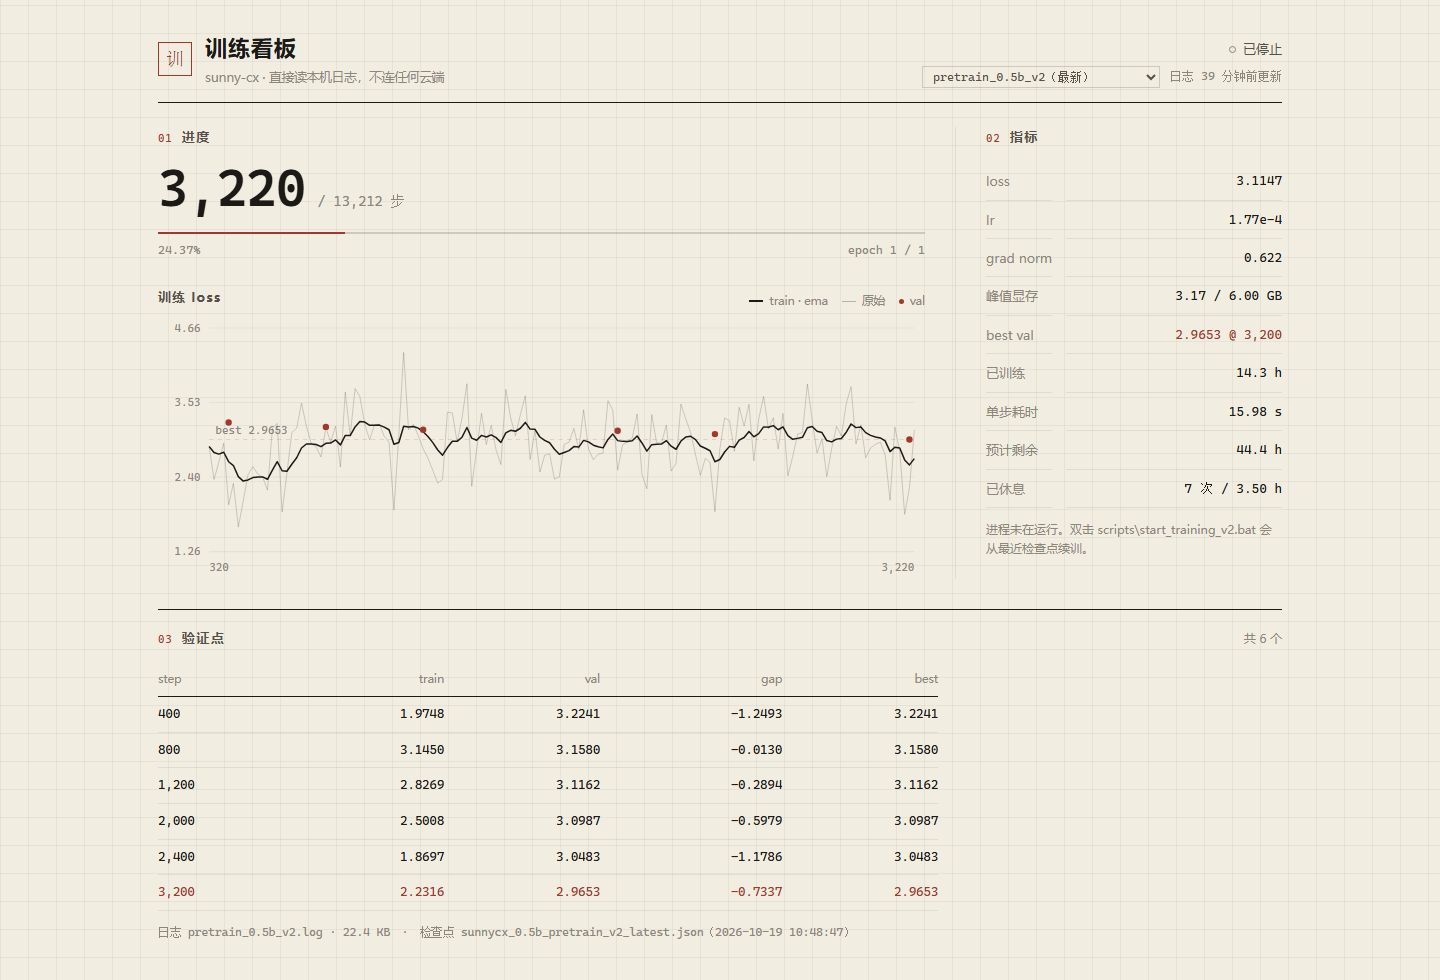
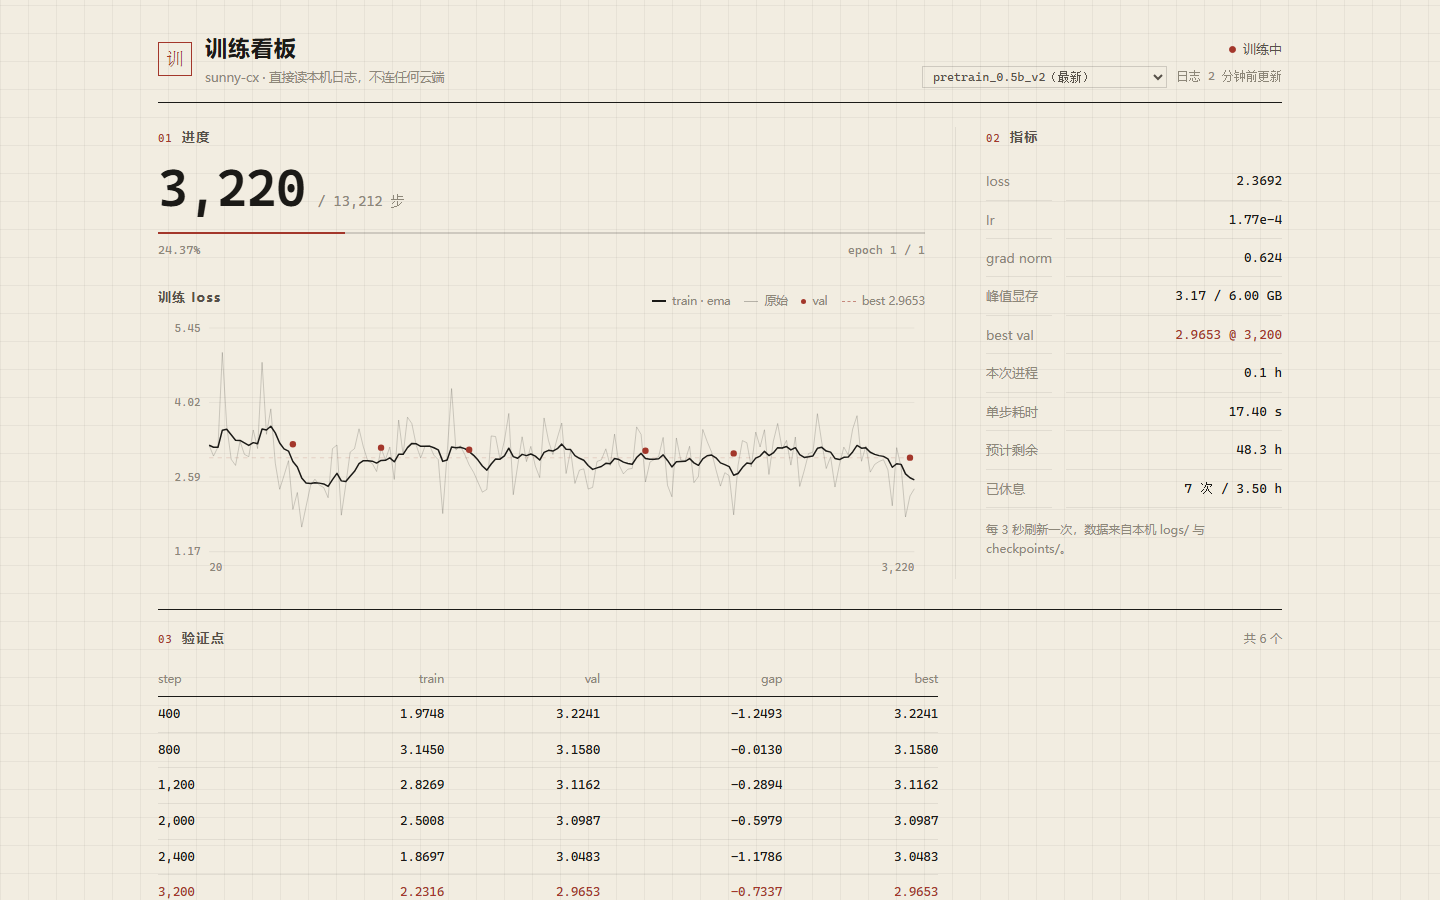
fix: 续训时 8-bit 优化器恢复的 OOM，并修正看板 ETA 口径
续训失败的真实原因
- bnb 8-bit 优化器状态恢复会临时把 int8 升精度，峰值远超常驻 0.98GiB
- 首轮报 OOM（「还有 3.57GB 空闲却分配不出 2MB」）；随后按官方建议加
  PYTORCH_CUDA_ALLOC_CONF=expandable_segments 反而在本机触发 0xC0000005
  —— 该选项 Windows 不支持，已撤除
- 修法：恢复前 gc + empty_cache；OOM 时只跳过优化器状态并明确告警
  （权重 / step / 早停照常恢复），其它 RuntimeError 照常抛出

看板 ETA 口径
- 原先用 elapsed*60/step：进程重启后 elapsed 归零而 step 是累计值，
  会算出 0.11 s/步、ETA 0.3h 这类荒谬数字
- 改为相邻进度点增量中位数（避开重启断点与 30min 休息段）
- 指标「已训练」改名「本次进程」，不再暗示累计

看板曲线跨重启
- 启动脚本以 `>` 覆盖主日志，重启即清空
- 解析层自动拼 `*.run*.log` 归档并按 step 去重，曲线连续
  （实测 3 段拼接：step 20 → 3220，161 点）

diff --git a/web/live.html b/web/live.html
@@ -59,6 +59,7 @@
             <span class="lg"><i class="lg-line"></i>train · ema</span>
             <span class="lg"><i class="lg-line lg-faint"></i>原始</span>
             <span class="lg"><i class="lg-dot"></i>val</span>
+            <span class="lg" id="lg-best" hidden><i class="lg-dash"></i><span id="lg-best-text">best</span></span>
           </div>
         </div>
         <svg id="curve" viewBox="0 0 720 250" preserveAspectRatio="none" role="img"
@@ -78,7 +79,7 @@
         <dt>grad norm</dt><dd id="m-gnorm">—</dd>
         <dt>峰值显存</dt><dd id="m-vram">—</dd>
         <dt>best val</dt><dd id="m-best">—</dd>
-        <dt>已训练</dt><dd id="m-elapsed">—</dd>
+        <dt>本次进程</dt><dd id="m-elapsed">—</dd>
         <dt>单步耗时</dt><dd id="m-sps">—</dd>
         <dt>预计剩余</dt><dd id="m-eta">—</dd>
         <dt>已休息</dt><dd id="m-rest">—</dd>

diff --git a/web/live.js b/web/live.js
@@ -84,13 +84,15 @@
         '" text-anchor="end">' + v.toFixed(2) + "</text>");
     }
 
-    // best val 参考线
+    // best val 参考线（数值放到图例里，避免压在曲线上）
     if (d.best_val != null && d.best_val >= lo && d.best_val <= hi) {
       var by = sy(d.best_val);
       out.push('<line class="best" x1="' + L + '" y1="' + by.toFixed(1) +
         '" x2="' + (W - R) + '" y2="' + by.toFixed(1) + '"/>');
-      out.push('<text class="axis" x="' + (L + 6) + '" y="' + (by - 5).toFixed(1) +
-        '">best ' + d.best_val.toFixed(4) + "</text>");
+      $("lg-best").hidden = false;
+      $("lg-best-text").textContent = "best " + d.best_val.toFixed(4);
+    } else {
+      $("lg-best").hidden = true;
     }
 
     // 原始 loss（细线，保留真实抖动）

diff --git a/web/live.css b/web/live.css
@@ -237,6 +237,7 @@ select {
 .lg-line { width: 14px; height: 1.5px; background: var(--ink); }
 .lg-faint { height: 1px; background: rgba(27, 26, 23, .28); }
 .lg-dot { width: 5px; height: 5px; border-radius: 50%; background: var(--cinnabar); }
+.lg-dash { width: 14px; height: 0; border-top: 1px dashed var(--cinnabar); opacity: .55; }
 
 #curve {
   display: block;

diff --git a/server/train_state.py b/server/train_state.py
@@ -158,49 +158,71 @@ def parse_run(run: str) -> dict:
     age = max(0.0, time.time() - log_path.stat().st_mtime)
     out["log_age_sec"] = round(age, 1)
 
+    # 启动脚本用 `> LOG` 覆盖写，每次重启主日志都会被清空。
+    # 把 `*_run*.log` / `*.run*.log` 这类归档按时间拼在前面，
+    # 曲线才能跨重启连续；主日志放最后，其状态事件优先。
+    segments = sorted(
+        (p for p in LOGS.glob(f"{log_path.stem}.run*.log") if p.is_file()),
+        key=lambda p: p.stat().st_mtime,
+    )
+    segments.append(log_path)
+    out["segments"] = [p.name for p in segments]
+
     resting = False
-    for line in _tail_lines(log_path):
-        m = RE_STEP.search(line)
-        if m:
-            epoch, epochs, step, total = (int(x) for x in m.groups()[:4])
-            out.update(
-                epoch=epoch, epochs=epochs, step=step, total_steps=total,
-                loss=float(m.group(5)), lr=float(m.group(6)),
-                gnorm=float(m.group(7)), elapsed_min=float(m.group(8)),
-                peak_gb=float(m.group(9)), peak_total_gb=float(m.group(10)),
-            )
-            if len(out["curve"]) < 2000:
-                out["curve"].append({"step": step, "loss": float(m.group(5))})
-            continue
+    for seg in segments:
+        for line in _tail_lines(seg):
+            m = RE_STEP.search(line)
+            if m:
+                epoch, epochs, step, total = (int(x) for x in m.groups()[:4])
+                out.update(
+                    epoch=epoch, epochs=epochs, step=step, total_steps=total,
+                    loss=float(m.group(5)), lr=float(m.group(6)),
+                    gnorm=float(m.group(7)), elapsed_min=float(m.group(8)),
+                    peak_gb=float(m.group(9)), peak_total_gb=float(m.group(10)),
+                )
+                if len(out["curve"]) < 2000:
+                    out["curve"].append({
+                        "step": step,
+                        "loss": float(m.group(5)),
+                        "elapsed": float(m.group(8)),
+                    })
+                continue
 
-        m = RE_VAL.search(line)
-        if m:
-            out["vals"].append({
-                "step": int(m.group(1)),
-                "train": float(m.group(3)),
-                "val": float(m.group(4)),
-                "gap": float(m.group(5)),
-                "best": float(m.group(6)),
-            })
-            continue
+            m = RE_VAL.search(line)
+            if m:
+                out["vals"].append({
+                    "step": int(m.group(1)),
+                    "train": float(m.group(3)),
+                    "val": float(m.group(4)),
+                    "gap": float(m.group(5)),
+                    "best": float(m.group(6)),
+                })
+                continue
 
-        if RE_REST_BEGIN.search(line):
-            resting, out["rest_timer"] = True, None
-            continue
+            if RE_REST_BEGIN.search(line):
+                resting, out["rest_timer"] = True, None
+                continue
 
-        m = RE_REST_TICK.search(line)
-        if m:
-            resting = True
-            out["rest_timer"] = [float(m.group(1)), float(m.group(2))]
-            continue
+            m = RE_REST_TICK.search(line)
+            if m:
+                resting = True
+                out["rest_timer"] = [float(m.group(1)), float(m.group(2))]
+                continue
 
-        if RE_REST_END.search(line):
-            resting, out["rest_timer"] = False, None
-            continue
+            if RE_REST_END.search(line):
+                resting, out["rest_timer"] = False, None
+                continue
 
-        m = RE_BEST.search(line)
-        if m:                                   # 兜底：从 best 行补 best_val
-            out["best_val"] = float(m.group(1))
+            m = RE_BEST.search(line)
+            if m:                               # 兜底：从 best 行补 best_val
+                out["best_val"] = float(m.group(1))
+
+    # 跨段去重：同一步以主日志（后读）为准
+    for key in ("curve", "vals"):
+        dedup: dict = {}
+        for item in out[key]:
+            dedup[item["step"]] = item
+        out[key] = [dedup[k] for k in sorted(dedup)]
 
     if resting:
         out["state"] = "resting"
@@ -212,12 +234,35 @@ def parse_run(run: str) -> dict:
     step, total, elapsed = out["step"], out["total_steps"], out["elapsed_min"]
     if step and total:
         out["progress"] = round(step / total, 5)
-        if elapsed and step > 0:
+        sps = _sec_per_step(out["curve"])
+        if sps:
+            out["sec_per_step"] = round(sps, 2)
             # elapsed 是墙钟时间（含休息），因此 ETA 天然把未来的休息算进去了
-            sec_per_step = elapsed * 60 / step
-            out["sec_per_step"] = round(sec_per_step, 2)
-            out["eta_hours"] = round((total - step) * sec_per_step / 3600, 2)
+            out["eta_hours"] = round((total - step) * sps / 3600, 2)
     return out
+
+
+def _sec_per_step(curve: list[dict]) -> float | None:
+    """单步耗时取相邻进度点的增量中位数。
+
+    不能用 `elapsed*60/step`：进程重启后 elapsed 从 0 重新计，
+    而 step 是累计值，两者相除会得到荒谬的小值（如 0.11 s/步），
+    ETA 随之严重低估。相邻点的 Δelapsed/Δstep 不受重启影响；
+    取中位数可避开休息段（Δelapsed 含 30min 休息）这类离群值。
+    """
+    ratios: list[float] = []
+    for a, b in zip(curve, curve[1:]):
+        ds = b["step"] - a["step"]
+        de = b.get("elapsed", 0.0) - a.get("elapsed", 0.0)
+        if ds > 0 and de > 0:
+            r = de * 60 / ds
+            if 0.5 <= r <= 600:          # 排除重启断点与异常行
+                ratios.append(r)
+    if not ratios:
+        return None
+    ratios.sort()
+    mid = len(ratios) // 2
+    return ratios[mid] if len(ratios) % 2 else (ratios[mid - 1] + ratios[mid]) / 2
 
 
 def latest_run() -> str | None:

diff --git a/src/sunnycx/trainer.py b/src/sunnycx/trainer.py
@@ -615,6 +615,8 @@ class Resumer:
 
     def __init__(self, save_dir: str, save_weight: str):
         self.path = Path(save_dir) / f"{save_weight}_latest.pt"
+        # None=未尝试 / True=已恢复 / False=显存不足已跳过
+        self.optimizer_restored: Optional[bool] = None
 
     def exists(self) -> bool:
         return self.path.exists()
@@ -631,11 +633,38 @@ class Resumer:
         state = {k: (v.to(target_dtype) if v.is_floating_point() else v)
                  for k, v in state.items()}
         model.load_state_dict(state)
+        # state 与 ckpt["model"] 是两份等大的 CPU 副本；优化器状态搬运前先放掉，
+        # 避免与 bnb 的逐参数 cast 抢内存（CPU 侧也影响页表与 GC 抖动）。
+        del state
+        ckpt["model"] = None
         if optimizer is not None and ckpt.get("optimizer"):
+            # bnb 8-bit 优化器恢复 = 逐参数把状态张量搬上卡（几百次小额分配）。
+            # 6GB 卡上极易撞分配器碎片，表现为「还有 3.5GB 空闲却分配不出 2MB」。
+            # 先清缓存 + 触发 GC，把可复用的块还给分配器。
+            gc.collect()
+            if torch.cuda.is_available():
+                torch.cuda.empty_cache()
+            optimizer_restored = False
             try:
                 optimizer.load_state_dict(ckpt["optimizer"])
+                optimizer_restored = True
             except (ValueError, KeyError) as e:
                 print(f"[resume] 优化器状态恢复失败（可能换了优化器）：{e}")
+            except RuntimeError as e:
+                # bnb 8-bit 恢复会临时把 int8 状态升精度，峰值远超常驻的 0.98GiB。
+                # 6GB 卡上偶发 OOM（表现为「还有 3.5GB 空闲却分配不出 2MB」）。
+                # 这里只吞 OOM，别的 RuntimeError 照常抛。
+                if "out of memory" not in str(e).lower():
+                    raise
+                print("[resume] ⚠ 显存不足，无法恢复 8-bit 优化器状态 —— 已跳过")
+                print("        模型权重 / step / 早停状态均已恢复，训练可继续；")
+                print("        代价是 Adam 一阶二阶矩重置，接下来数百步 loss 会有一次小幅回升。")
+                print("        要避免此降级：先关闭占显存的程序再续训。")
+                if torch.cuda.is_available():
+                    torch.cuda.empty_cache()
+                gc.collect()
+            if optimizer is not None:
+                self.optimizer_restored = optimizer_restored
         if scaler is not None and ckpt.get("scaler") and scaler.is_enabled():
             try:
                 scaler.load_state_dict(ckpt["scaler"])
@@ -645,6 +674,7 @@ class Resumer:
             "epoch": ckpt.get("epoch", 0),
             "step": ckpt.get("step", 0),
             "early_stop": ckpt.get("early_stop", {}),
+            "optimizer_restored": self.optimizer_restored,
         }
 
 

diff --git a/README.md b/README.md
@@ -205,7 +205,10 @@ python -m uvicorn server.app:app --port 8000
 
 - 进度、loss 曲线（原始细线 + EMA 趋势线）、验证点、显存峰值、单步耗时、ETA、休息累计
 - 状态按日志新鲜度判定：`training`（5 分钟内有新行）/ `resting`（最后一条事件是休息）/ `stopped`
-- ETA 用墙钟 `elapsed` 推算，因此**天然把未来的休息时间算进去**，不是纯算力估算
+- **单步耗时取相邻进度点的增量中位数**：进程重启后 `elapsed` 从 0 重计，
+  直接拿它除累计 step 会算出 0.11 s/步这种荒谬值；中位数还能避开 30 分钟休息段
+- **曲线自动拼上 `*.run*.log` 归档**：启动脚本用 `>` 覆盖写主日志，
+  不拼归档的话每次重启曲线都会断掉
 
 | 接口 | 说明 |
 |---|---|
